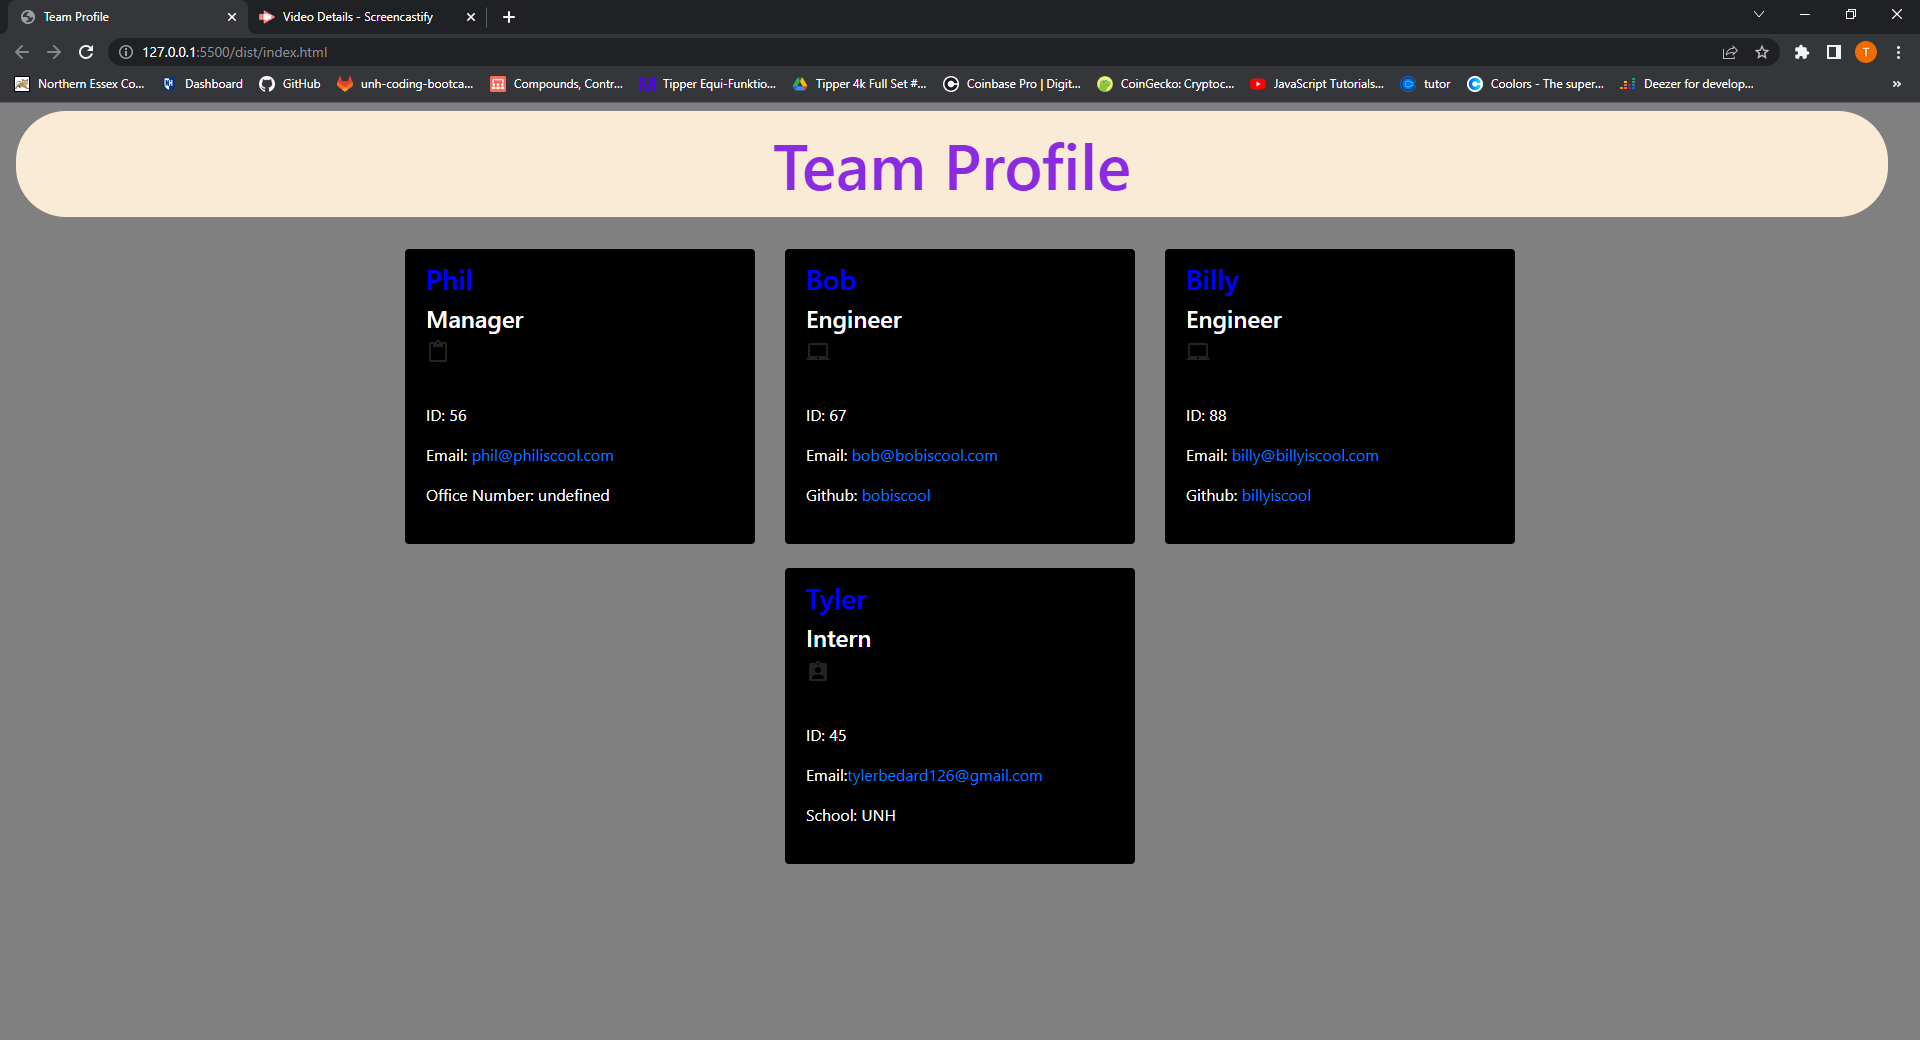
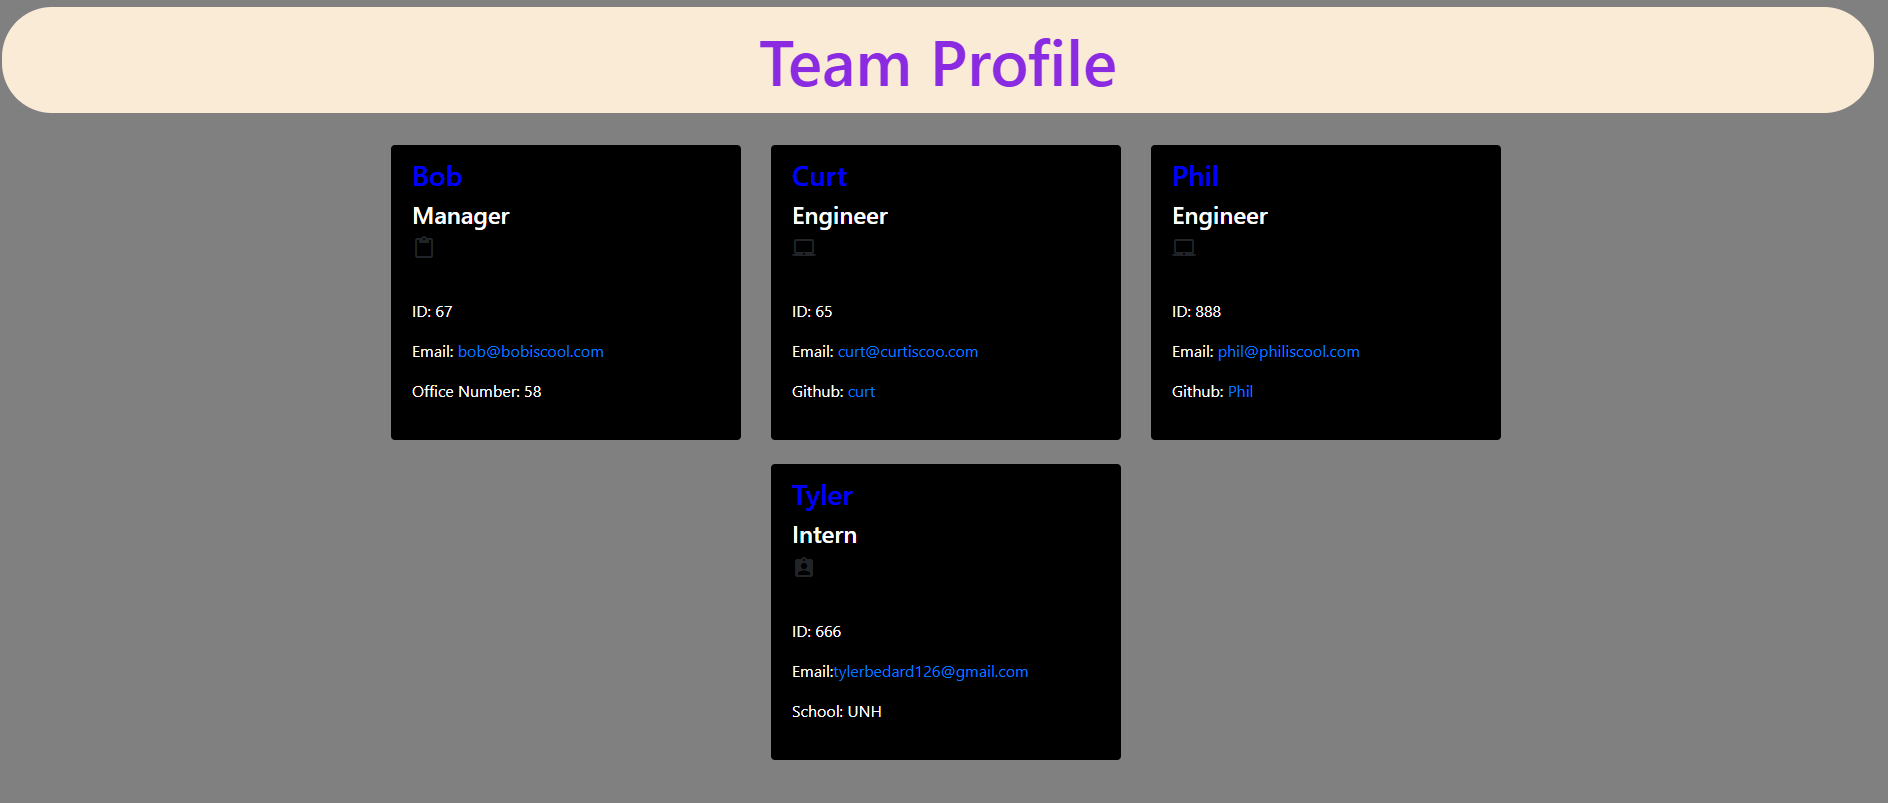
added comments and fixed office number showing as undefined

Changed region(s): [[0.0, 0.0, 1.0, 0.7783], [0.4062, 0.7783, 0.5938, 0.9651], [0.4062, 0.3736, 0.4375, 0.4047]]

diff --git a/dist/index.html b/dist/index.html
@@ -1,91 +1,101 @@
+<!DOCTYPE html>
+<html lang="en">
 
-    <!DOCTYPE html>
-  <html lang="en">
-  <head>
-      <meta charset="UTF-8">
-      <meta name="viewport" content="width=device-width, initial-scale=1.0">
-      <title>Team Profile</title>
-      <link rel="stylesheet" href="https://cdnjs.cloudflare.com/ajax/libs/font-awesome/5.11.2/css/all.min.css">
-      <link href="https://fonts.googleapis.com/css?family=Public+Sans:300i,300,500&display=swap" rel="stylesheet">
-      <link rel="stylesheet" href="https://stackpath.bootstrapcdn.com/bootstrap/4.5.0/css/bootstrap.min.css" integrity="sha384-9aIt2nRpC12Uk9gS9baDl411NQApFmC26EwAOH8WgZl5MYYxFfc+NcPb1dKGj7Sk" crossorigin="anonymous">
-      <link href="https://fonts.googleapis.com/icon?family=Material+Icons" rel="stylesheet">
-      <link rel="stylesheet" href="style.css">
-  </head>
-  <body>
-      <header>
-          <nav class="navbar" id="navbar">
-              <span class="navbar-brand mb-0 h1 w-100 text-center" id="navbar-text">Team Profile</span>
-          </nav>
-      </header>
-      <main>
-          <div class="container">
-              <div class="row justify-content-center" id="team-cards">
-                  <!--Team Cards-->
-                  
-    <div class="col-4 mt-4">
-        <div class="card h-100">
-            <div class="card-header">
-                <h3>Phil</h3>
-                <h4>Manager</h4><i class="material-icons">content_paste</i>
-            </div>
-            <div class="card-body">
-                <p class="id">ID: 56</p>
-                <p class="email">Email: <a href="mailto:phil@philiscool.com">phil@philiscool.com</a></p>
-                <p class="office">Office Number: undefined</p>
-            </div>
-        </div>
-    </div>
-    
-    <div class ="col-4 mt-4">
-        <div class="card h-100">
-            <div class="card-header">
-                <h3>Bob</h3>
-                <h4>Engineer</h4><i class="material-icons">laptop_mac</i>
-            </div>
+<head>
+    <meta charset="UTF-8">
+    <meta name="viewport" content="width=device-width, initial-scale=1.0">
+    <title>Team Profile</title>
+    <link rel="stylesheet" href="https://cdnjs.cloudflare.com/ajax/libs/font-awesome/5.11.2/css/all.min.css">
+    <link href="https://fonts.googleapis.com/css?family=Public+Sans:300i,300,500&display=swap" rel="stylesheet">
+    <link rel="stylesheet" href="https://stackpath.bootstrapcdn.com/bootstrap/4.5.0/css/bootstrap.min.css"
+        integrity="sha384-9aIt2nRpC12Uk9gS9baDl411NQApFmC26EwAOH8WgZl5MYYxFfc+NcPb1dKGj7Sk" crossorigin="anonymous">
+    <link href="https://fonts.googleapis.com/icon?family=Material+Icons" rel="stylesheet">
+    <link rel="stylesheet" href="style.css">
+</head>
 
-            <div class="card-body">
-                <p class="id">ID: 67</p>
-                <p class="email">Email: <a href="mailto:bob@bobiscool.com">bob@bobiscool.com</a></p>
-                <p class="github">Github: <a href="https://github.com/bobiscool">bobiscool</a></p>
-            </div>
-        </div>
-    </div>
-    
-    <div class ="col-4 mt-4">
-        <div class="card h-100">
-            <div class="card-header">
-                <h3>Billy</h3>
-                <h4>Engineer</h4><i class="material-icons">laptop_mac</i>
-            </div>
+<body>
+    <header>
+        <nav class="navbar" id="navbar">
+            <span class="navbar-brand mb-0 h1 w-100 text-center" id="navbar-text">Team Profile</span>
+        </nav>
+    </header>
+    <main>
+        <div class="container">
+            <div class="row justify-content-center" id="team-cards">
+                <!--Team Cards-->
 
-            <div class="card-body">
-                <p class="id">ID: 88</p>
-                <p class="email">Email: <a href="mailto:billy@billyiscool.com">billy@billyiscool.com</a></p>
-                <p class="github">Github: <a href="https://github.com/billyiscool">billyiscool</a></p>
+                <div class="col-4 mt-4">
+                    <div class="card h-100">
+                        <div class="card-header">
+                            <h3>Bob</h3>
+                            <h4>Manager</h4><i class="material-icons">content_paste</i>
+                        </div>
+                        <div class="card-body">
+                            <p class="id">ID: 67</p>
+                            <p class="email">Email: <a href="mailto:bob@bobiscool.com">bob@bobiscool.com</a></p>
+                            <p class="office">Office Number: 58</p>
+                        </div>
+                    </div>
+                </div>
+
+                <div class="col-4 mt-4">
+                    <div class="card h-100">
+                        <div class="card-header">
+                            <h3>Curt</h3>
+                            <h4>Engineer</h4><i class="material-icons">laptop_mac</i>
+                        </div>
+
+                        <div class="card-body">
+                            <p class="id">ID: 65</p>
+                            <p class="email">Email: <a href="mailto:curt@curtiscoo.com">curt@curtiscoo.com</a></p>
+                            <p class="github">Github: <a href="https://github.com/curt">curt</a></p>
+                        </div>
+                    </div>
+                </div>
+
+                <div class="col-4 mt-4">
+                    <div class="card h-100">
+                        <div class="card-header">
+                            <h3>Phil</h3>
+                            <h4>Engineer</h4><i class="material-icons">laptop_mac</i>
+                        </div>
+
+                        <div class="card-body">
+                            <p class="id">ID: 888</p>
+                            <p class="email">Email: <a href="mailto:phil@philiscool.com">phil@philiscool.com</a></p>
+                            <p class="github">Github: <a href="https://github.com/Phil">Phil</a></p>
+                        </div>
+                    </div>
+                </div>
+
+                <div class="col-4 mt-4">
+                    <div class="card h-100">
+                        <div class="card-header">
+                            <h3>Tyler</h3>
+                            <h4>Intern</h4><i class="material-icons">assignment_ind</i>
+                        </div>
+                        <div class="card-body">
+                            <p class="id">ID: 666</p>
+                            <p class="email">Email:<a
+                                    href="mailto:tylerbedard126@gmail.com">tylerbedard126@gmail.com</a></p>
+                            <p class="school">School: UNH</p>
+                        </div>
+                    </div>
+                </div>
+
             </div>
         </div>
-    </div>
-    
-    <div class="col-4 mt-4">
-    <div class="card h-100">
-        <div class="card-header">
-            <h3>Tyler</h3>
-            <h4>Intern</h4><i class="material-icons">assignment_ind</i>
-        </div>
-        <div class="card-body">
-            <p class="id">ID: 45</p>
-            <p class="email">Email:<a href="mailto:tylerbedard126@gmail.com">tylerbedard126@gmail.com</a></p>
-            <p class="school">School: UNH</p>
-        </div>
-</div>
-</div>
-    
-              </div>
-          </div>
-      </main>
-      
-  </body>
-  <script src="https://code.jquery.com/jquery-3.5.1.slim.min.js" integrity="sha384-DfXdz2htPH0lsSSs5nCTpuj/zy4C+OGpamoFVy38MVBnE+IbbVYUew+OrCXaRkfj" crossorigin="anonymous"></script>
-  <script src="https://cdn.jsdelivr.net/npm/popper.js@1.16.0/dist/umd/popper.min.js" integrity="sha384-Q6E9RHvbIyZFJoft+2mJbHaEWldlvI9IOYy5n3zV9zzTtmI3UksdQRVvoxMfooAo" crossorigin="anonymous"></script>
-  <script src="https://stackpath.bootstrapcdn.com/bootstrap/4.5.0/js/bootstrap.min.js" integrity="sha384-OgVRvuATP1z7JjHLkuOU7Xw704+h835Lr+6QL9UvYjZE3Ipu6Tp75j7Bh/kR0JKI" crossorigin="anonymous"></script>
-  </html>
+    </main>
+
+</body>
+<script src="https://code.jquery.com/jquery-3.5.1.slim.min.js"
+    integrity="sha384-DfXdz2htPH0lsSSs5nCTpuj/zy4C+OGpamoFVy38MVBnE+IbbVYUew+OrCXaRkfj"
+    crossorigin="anonymous"></script>
+<script src="https://cdn.jsdelivr.net/npm/popper.js@1.16.0/dist/umd/popper.min.js"
+    integrity="sha384-Q6E9RHvbIyZFJoft+2mJbHaEWldlvI9IOYy5n3zV9zzTtmI3UksdQRVvoxMfooAo"
+    crossorigin="anonymous"></script>
+<script src="https://stackpath.bootstrapcdn.com/bootstrap/4.5.0/js/bootstrap.min.js"
+    integrity="sha384-OgVRvuATP1z7JjHLkuOU7Xw704+h835Lr+6QL9UvYjZE3Ipu6Tp75j7Bh/kR0JKI"
+    crossorigin="anonymous"></script>
+
+</html>

diff --git a/index.js b/index.js
@@ -1,20 +1,20 @@
-const generateHTML = require('./src/generateHTML');
 
+// required librarys we need
+
+const generateHTML = require('./src/generateHTML');
 const Manager = require('./lib/Manager');
 const Engineer = require('./lib/Engineer');
 const Intern = require('./lib/Intern');
-
-
 
 
 // node modules
 const fs = require('fs');
 const inquirer = require('inquirer');
 
-
+// an array to hold all of the info we get from the questions
 const teamArray = [];
 
-
+// this asks the questions for the manager
 const addManager = () => {
     return inquirer.prompt([
         {
@@ -35,11 +35,11 @@ const addManager = () => {
         },
         {
             type: 'input',
-            name: 'officeNumber',
+            name: 'office',
             message: "what is the managers office number?",
         },
     ])
-
+        // this is adding the info from the questions to the object we created for it
         .then(managerInput => {
             const { name, id, email, office } = managerInput;
             const manager = new Manager(name, id, email, office);
@@ -48,7 +48,7 @@ const addManager = () => {
             console.log(manager);
         })
 }
-
+// asking the questions for the employees
 const addEmployee = () => {
     console.log(`Adding employees to the team!`);
 
@@ -98,7 +98,7 @@ const addEmployee = () => {
 
             let { name, id, email, role, github, school, confirmAddEmployee } = employeeData;
             let employee;
-
+            // this is checking the information based on the user input
             if (role === "Engineer") {
                 employee = new Engineer(name, id, email, github);
 
@@ -120,20 +120,20 @@ const addEmployee = () => {
         })
 
 };
-
+// this is writing the file with the info from the user
 const writeFile = data => {
     fs.writeFile('./dist/index.html', data, err => {
 
         if (err) {
             console.log(err);
             return;
-            // when the profile has been created 
+
         } else {
             console.log("Your page has been succesfully created!!")
         }
     })
 };
-
+// invoking all of the functions with the info from the user
 addManager()
     .then(addEmployee)
     .then(teamArray => {

diff --git a/src/generateHTML.js b/src/generateHTML.js
@@ -1,4 +1,5 @@
-const generateManagerCard =  (manager) => {
+// creates the card for the manager
+const generateManagerCard = (manager) => {
     return `
     <div class="col-4 mt-4">
         <div class="card h-100">
@@ -16,7 +17,8 @@ const generateManagerCard =  (manager) => {
     `;
 }
 
-const generateEngineerCard =  (engineer) => {
+// creates the card for the engineer
+const generateEngineerCard = (engineer) => {
     return `
     <div class ="col-4 mt-4">
         <div class="card h-100">
@@ -35,8 +37,8 @@ const generateEngineerCard =  (engineer) => {
     `
 }
 
-
-const generateInternCard =  (intern) => {
+// creates the card for the intern
+const generateInternCard = (intern) => {
     return `
     <div class="col-4 mt-4">
     <div class="card h-100">
@@ -54,6 +56,7 @@ const generateInternCard =  (intern) => {
     `
 }
 
+// adds the correct data to the correct card 
 generateHTML = (data) => {
 
     pageArray = [];
@@ -90,8 +93,8 @@ generateHTML = (data) => {
 
 }
 
-
-const createTeamPage =  (employeeCards) => {
+// creates the whole html page
+const createTeamPage = (employeeCards) => {
     return `
     <!DOCTYPE html>
   <html lang="en">

diff --git a/lib/manager.js b/lib/manager.js
@@ -1,11 +1,15 @@
 const Employee = require("./employee");
 
 
-
+// constructor class for manager
 class Manager extends Employee {
     constructor(name, id, email, office) {
         super(name, id, email)
         this.office = office;
+    }
+
+    getOffice() {
+        return this.office;
     }
 
     getRole() {

diff --git a/lib/engineer.js b/lib/engineer.js
@@ -1,6 +1,6 @@
 const Employee = require('./employee');
 
-
+// constructor class for engineer
 class Engineer extends Employee {
     constructor(name, id, email, github) {
         super(name, id, email)

diff --git a/lib/intern.js b/lib/intern.js
@@ -1,7 +1,7 @@
 const Employee = require("./employee");
 
 
-
+// constructor class for employee
 class Intern extends Employee {
     constructor(name, id, email, school) {
         super(name, id, email)

diff --git a/lib/employee.js b/lib/employee.js
@@ -26,4 +26,5 @@ class Employee {
 
 };
 
+// exports this so we can use it
 module.exports = Employee;
